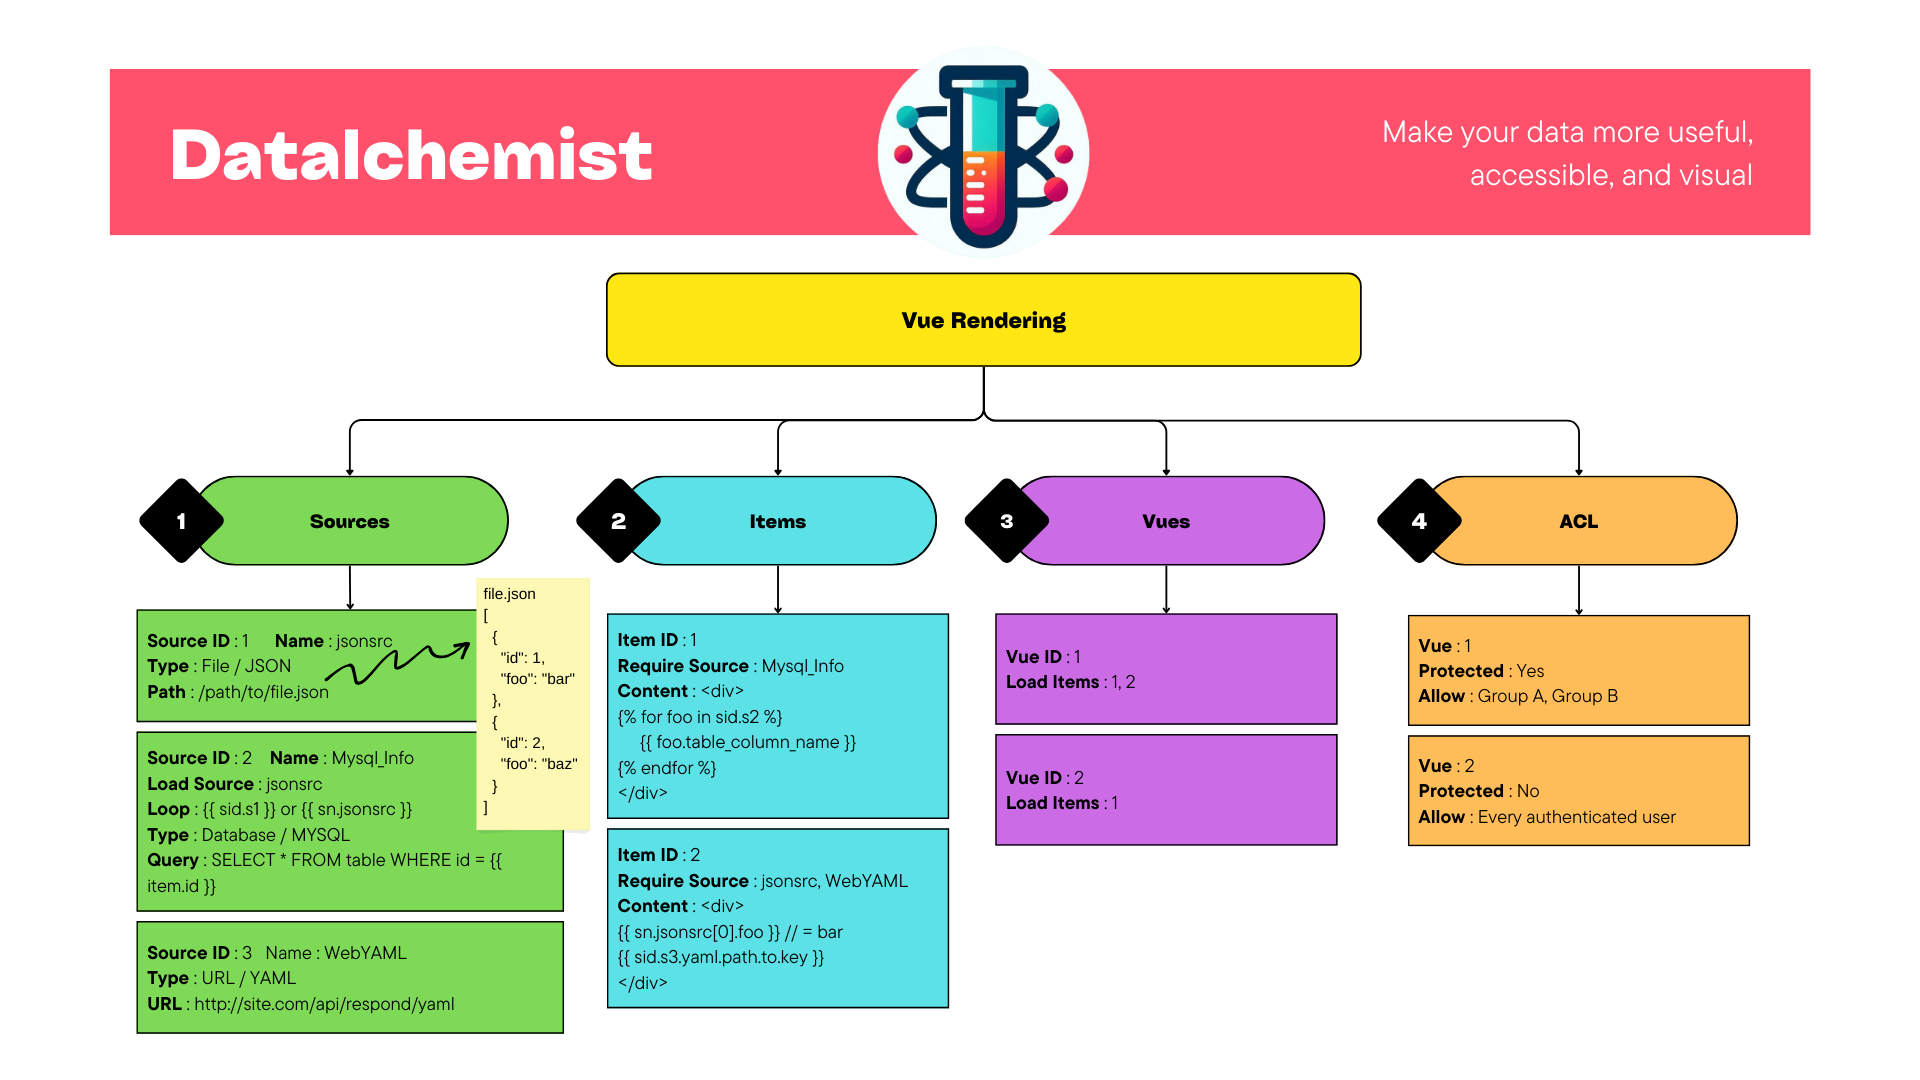
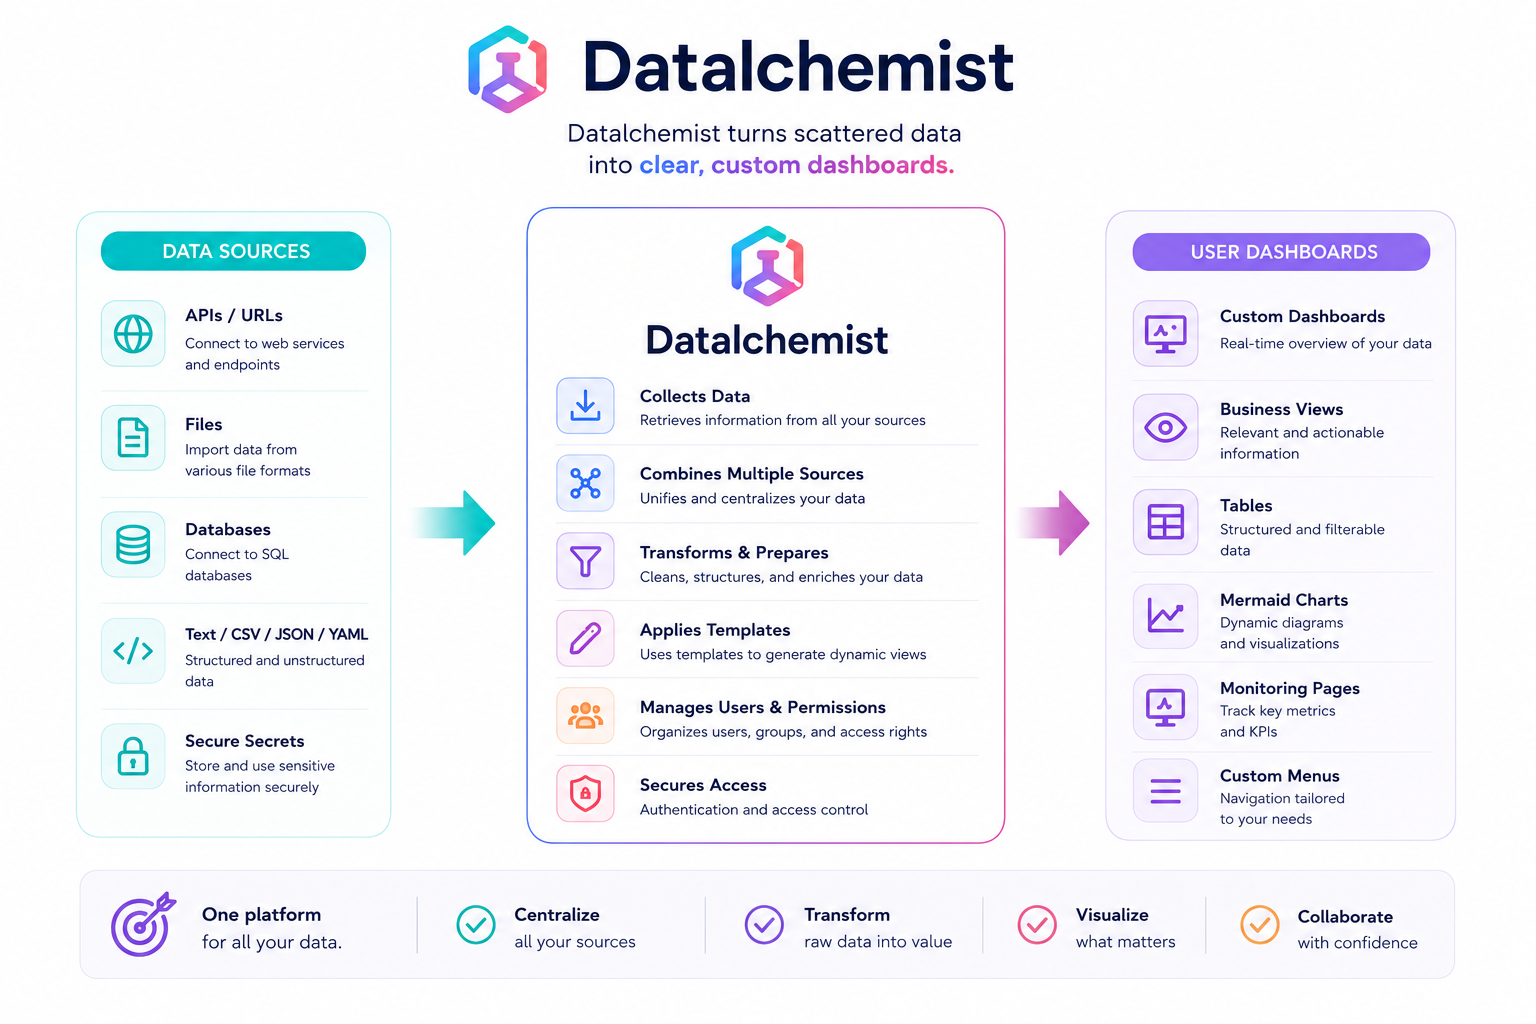
refactor: remove Graphify setup and related configurations from devcontainer

diff --git a/.devcontainer/README.md b/.devcontainer/README.md
@@ -66,32 +66,6 @@ docker-compose up --build
 
 ## 🔧 Commandes utiles
 
-### Graphify (contexte IA persistant)
-
-Graphify est installé dans l'image du devcontainer et son skill Codex est
-installé dans le dépôt à chaque création de conteneur. Il génère un graphe local
-(`graphify-out/`, ignoré par Git) pour éviter de relire tout le dépôt à chaque
-requête IA.
-
-```bash
-# Dans Codex, après le rebuild du devcontainer
-$graphify .
-
-# Reconstruire le graphe après un ensemble de modifications
-graphify extract .
-
-# Interroger le graphe depuis le terminal
-graphify query "où est gérée l'authentification ?"
-```
-
-Pour permettre l'extraction parallèle dans Codex, ajoutez une fois ce réglage
-à `/root/.codex/config.toml` dans le devcontainer :
-
-```toml
-[features]
-multi_agent = true
-```
-
 ### Démarrer le devcontainer:
 
 ```bash

diff --git a/AGENTS.md b/AGENTS.md
@@ -5,6 +5,7 @@
 ### Backend GO
 
 - Rédige et maintiens à jours les fichiers \_test.go.
+- Si tu ne touche pas au backend ne fait pas de go test
 
 ## Préférences
 
@@ -13,17 +14,3 @@
 - Avant toute modification non triviale, propose un plan court.
 - N'invente rien : si tu ne sais pas, dis-le. Vérifie dans le code ou la doc avant d'affirmer, et cite ta source.
 - Si ma demande est ambiguë, pose-moi des questions avant d'agir.
-
-## graphify
-
-Ce projet possède un graphe de connaissance dans `graphify-out/`, avec des nœuds centraux, une structure en communautés et des relations inter-fichiers.
-
-Quand l'utilisateur saisit `/graphify`, invoquer le skill `graphify` avant toute autre action.
-
-Règles :
-
-- Pour les questions sur le code, exécuter d'abord `graphify query "<question>"` si `graphify-out/graph.json` existe. Utiliser `graphify path "<A>" "<B>"` pour les relations et `graphify explain "<concept>"` pour un concept ciblé.
-- Des fichiers modifiés dans `graphify-out/` sont normaux après les hooks ou mises à jour incrémentales ; ce n'est pas une raison pour ne pas utiliser Graphify. Ne l'ignorer que si la demande concerne un graphe obsolète ou incorrect, ou si l'utilisateur le demande explicitement.
-- Si `graphify-out/wiki/index.md` existe, l'utiliser pour une navigation générale plutôt que de parcourir directement les sources.
-- Ne lire `graphify-out/GRAPH_REPORT.md` que pour une revue d'architecture large ou si `query`, `path` et `explain` ne fournissent pas assez de contexte.
-- Après une modification du code, exécuter `graphify update .` pour garder le graphe à jour (analyse AST uniquement, sans coût d'API).